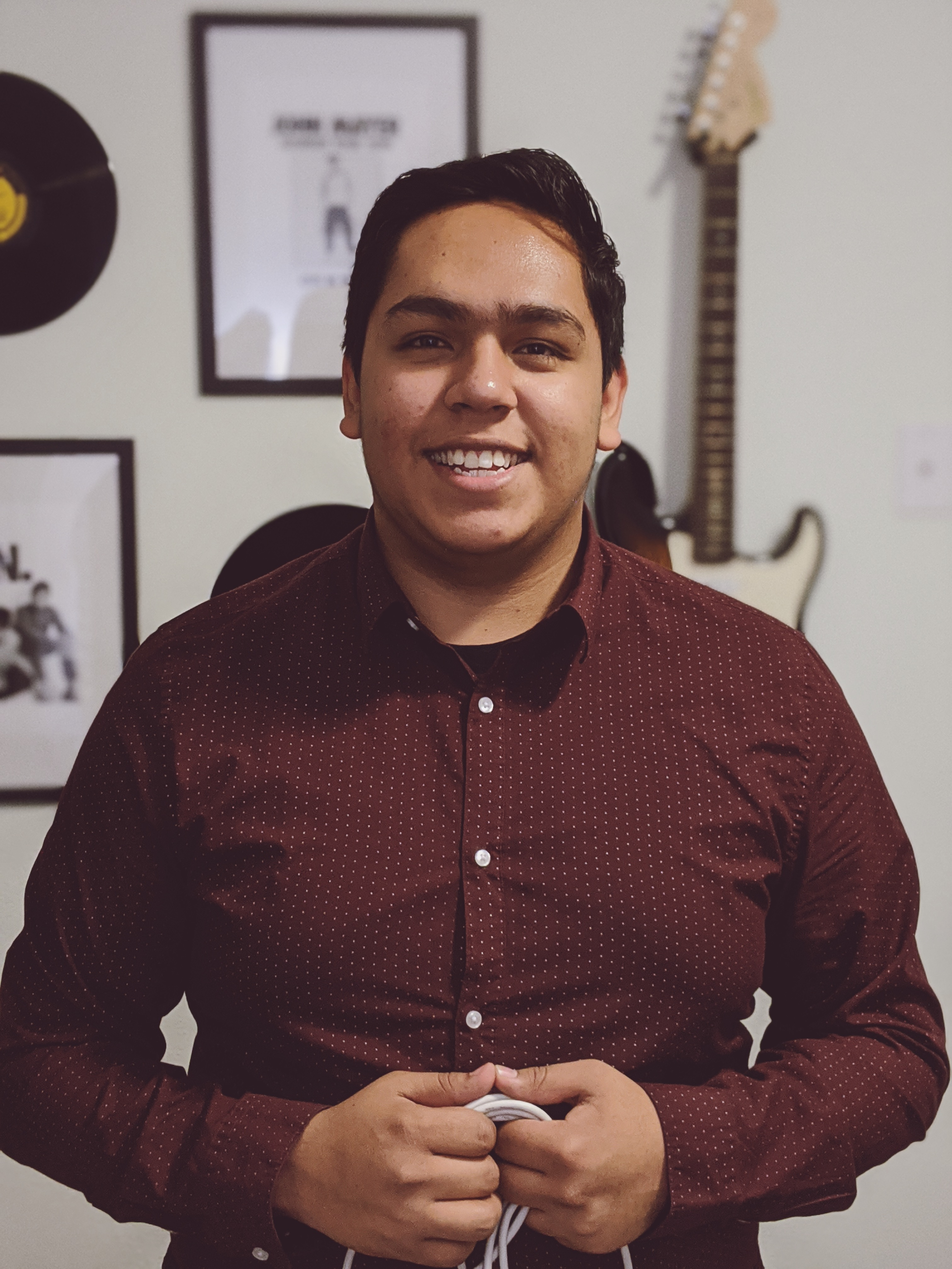
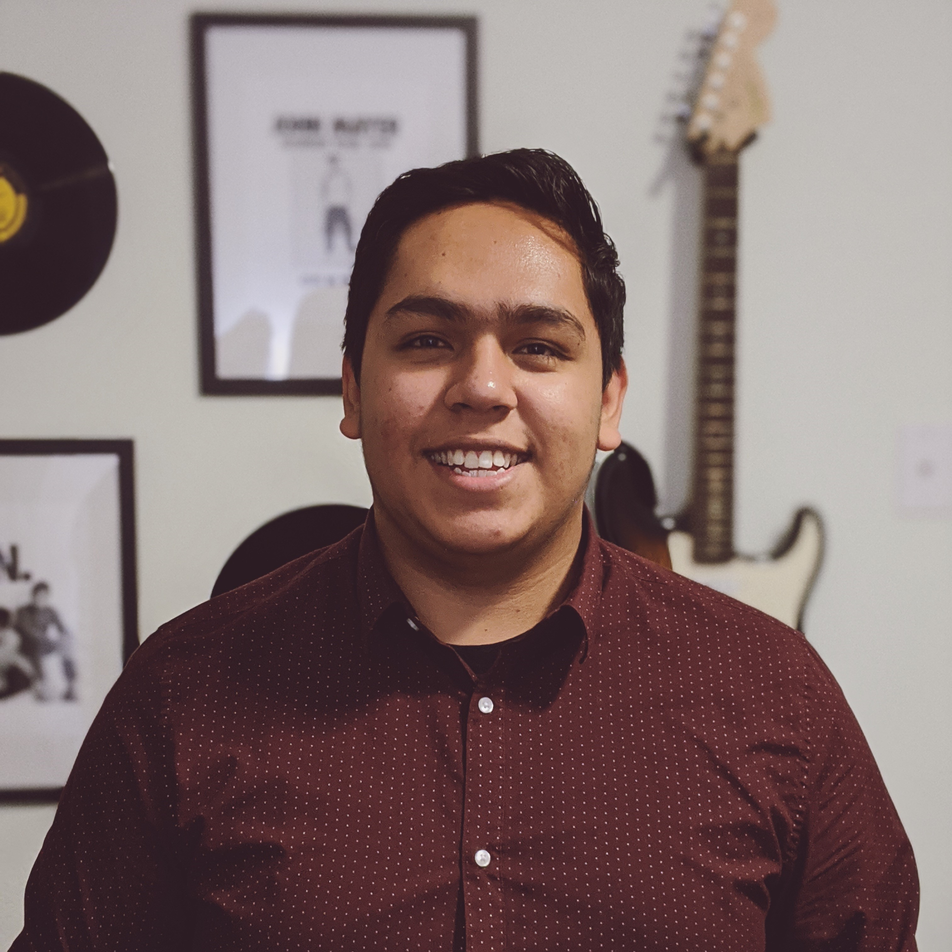
Website Update 06-22-20 10:05p
Made profile pic BW

diff --git a/index.html b/index.html
@@ -140,7 +140,7 @@ long run. Thanks for using the theme, and feel free to submit issues as needed.<
 
     <div id="wrapper">
       <section id="site-intro" >
-  <a href="https://d9dch.github.io/Daniel_Chavez/"><img src="https://d9dch.github.io/Daniel_Chavez/img/new_images/Portrait.jpg" class="circle" width="" alt="Hugo Future Imperfect Slim" /></a>
+  <a href="https://d9dch.github.io/Daniel_Chavez/"><img src="https://d9dch.github.io/Daniel_Chavez/img/new_images/PortraitBW.jpg" class="circle" width="" alt="Hugo Future Imperfect Slim" /></a>
   <header>
     <h1>Daniel Dominguez Chavez</h1>
   </header>

diff --git a/page/2/index.html b/page/2/index.html
@@ -140,7 +140,7 @@ long run. Thanks for using the theme, and feel free to submit issues as needed.<
 
     <div id="wrapper">
       <section id="site-intro" >
-  <a href="https://d9dch.github.io/Daniel_Chavez/"><img src="https://d9dch.github.io/Daniel_Chavez/img/new_images/Portrait.jpg" class="circle" width="" alt="Hugo Future Imperfect Slim" /></a>
+  <a href="https://d9dch.github.io/Daniel_Chavez/"><img src="https://d9dch.github.io/Daniel_Chavez/img/new_images/PortraitBW.jpg" class="circle" width="" alt="Hugo Future Imperfect Slim" /></a>
   <header>
     <h1>Daniel Dominguez Chavez</h1>
   </header>

diff --git a/projects/greeley/index.html b/projects/greeley/index.html
@@ -105,7 +105,7 @@
 
     <div id="wrapper">
       <section id="site-intro" >
-  <a href="https://d9dch.github.io/Daniel_Chavez/"><img src="https://d9dch.github.io/Daniel_Chavez/img/new_images/Portrait.jpg" class="circle" width="" alt="Hugo Future Imperfect Slim" /></a>
+  <a href="https://d9dch.github.io/Daniel_Chavez/"><img src="https://d9dch.github.io/Daniel_Chavez/img/new_images/PortraitBW.jpg" class="circle" width="" alt="Hugo Future Imperfect Slim" /></a>
   <header>
     <h1>Daniel Dominguez Chavez</h1>
   </header>

diff --git a/projects/machine-learning/index.html b/projects/machine-learning/index.html
@@ -107,7 +107,7 @@
 
     <div id="wrapper">
       <section id="site-intro" >
-  <a href="https://d9dch.github.io/Daniel_Chavez/"><img src="https://d9dch.github.io/Daniel_Chavez/img/new_images/Portrait.jpg" class="circle" width="" alt="Hugo Future Imperfect Slim" /></a>
+  <a href="https://d9dch.github.io/Daniel_Chavez/"><img src="https://d9dch.github.io/Daniel_Chavez/img/new_images/PortraitBW.jpg" class="circle" width="" alt="Hugo Future Imperfect Slim" /></a>
   <header>
     <h1>Daniel Dominguez Chavez</h1>
   </header>

diff --git a/projects/microstrip_simulation/index.html b/projects/microstrip_simulation/index.html
@@ -105,7 +105,7 @@
 
     <div id="wrapper">
       <section id="site-intro" >
-  <a href="https://d9dch.github.io/Daniel_Chavez/"><img src="https://d9dch.github.io/Daniel_Chavez/img/new_images/Portrait.jpg" class="circle" width="" alt="Hugo Future Imperfect Slim" /></a>
+  <a href="https://d9dch.github.io/Daniel_Chavez/"><img src="https://d9dch.github.io/Daniel_Chavez/img/new_images/PortraitBW.jpg" class="circle" width="" alt="Hugo Future Imperfect Slim" /></a>
   <header>
     <h1>Daniel Dominguez Chavez</h1>
   </header>

diff --git a/projects/molecule_linear_regression/index.html b/projects/molecule_linear_regression/index.html
@@ -105,7 +105,7 @@
 
     <div id="wrapper">
       <section id="site-intro" >
-  <a href="https://d9dch.github.io/Daniel_Chavez/"><img src="https://d9dch.github.io/Daniel_Chavez/img/new_images/Portrait.jpg" class="circle" width="" alt="Hugo Future Imperfect Slim" /></a>
+  <a href="https://d9dch.github.io/Daniel_Chavez/"><img src="https://d9dch.github.io/Daniel_Chavez/img/new_images/PortraitBW.jpg" class="circle" width="" alt="Hugo Future Imperfect Slim" /></a>
   <header>
     <h1>Daniel Dominguez Chavez</h1>
   </header>

diff --git a/projects/solar_linear_regression/index.html b/projects/solar_linear_regression/index.html
@@ -105,7 +105,7 @@
 
     <div id="wrapper">
       <section id="site-intro" >
-  <a href="https://d9dch.github.io/Daniel_Chavez/"><img src="https://d9dch.github.io/Daniel_Chavez/img/new_images/Portrait.jpg" class="circle" width="" alt="Hugo Future Imperfect Slim" /></a>
+  <a href="https://d9dch.github.io/Daniel_Chavez/"><img src="https://d9dch.github.io/Daniel_Chavez/img/new_images/PortraitBW.jpg" class="circle" width="" alt="Hugo Future Imperfect Slim" /></a>
   <header>
     <h1>Daniel Dominguez Chavez</h1>
   </header>

diff --git a/projects/traffic_stop_gender_bias/index.html b/projects/traffic_stop_gender_bias/index.html
@@ -105,7 +105,7 @@
 
     <div id="wrapper">
       <section id="site-intro" >
-  <a href="https://d9dch.github.io/Daniel_Chavez/"><img src="https://d9dch.github.io/Daniel_Chavez/img/new_images/Portrait.jpg" class="circle" width="" alt="Hugo Future Imperfect Slim" /></a>
+  <a href="https://d9dch.github.io/Daniel_Chavez/"><img src="https://d9dch.github.io/Daniel_Chavez/img/new_images/PortraitBW.jpg" class="circle" width="" alt="Hugo Future Imperfect Slim" /></a>
   <header>
     <h1>Daniel Dominguez Chavez</h1>
   </header>

diff --git a/about/index.html b/about/index.html
@@ -99,7 +99,7 @@
 
     <div id="wrapper">
       <section id="site-intro" >
-  <a href="https://d9dch.github.io/Daniel_Chavez/"><img src="https://d9dch.github.io/Daniel_Chavez/img/new_images/Portrait.jpg" class="circle" width="" alt="Hugo Future Imperfect Slim" /></a>
+  <a href="https://d9dch.github.io/Daniel_Chavez/"><img src="https://d9dch.github.io/Daniel_Chavez/img/new_images/PortraitBW.jpg" class="circle" width="" alt="Hugo Future Imperfect Slim" /></a>
   <header>
     <h1>Daniel Dominguez Chavez</h1>
   </header>

diff --git a/categories/academic-project/index.html b/categories/academic-project/index.html
@@ -95,7 +95,7 @@
 
     <div id="wrapper">
       <section id="site-intro" >
-  <a href="https://d9dch.github.io/Daniel_Chavez/"><img src="https://d9dch.github.io/Daniel_Chavez/img/new_images/Portrait.jpg" class="circle" width="" alt="Hugo Future Imperfect Slim" /></a>
+  <a href="https://d9dch.github.io/Daniel_Chavez/"><img src="https://d9dch.github.io/Daniel_Chavez/img/new_images/PortraitBW.jpg" class="circle" width="" alt="Hugo Future Imperfect Slim" /></a>
   <header>
     <h1>Daniel Dominguez Chavez</h1>
   </header>

diff --git a/categories/academic-project/page/2/index.html b/categories/academic-project/page/2/index.html
@@ -95,7 +95,7 @@
 
     <div id="wrapper">
       <section id="site-intro" >
-  <a href="https://d9dch.github.io/Daniel_Chavez/"><img src="https://d9dch.github.io/Daniel_Chavez/img/new_images/Portrait.jpg" class="circle" width="" alt="Hugo Future Imperfect Slim" /></a>
+  <a href="https://d9dch.github.io/Daniel_Chavez/"><img src="https://d9dch.github.io/Daniel_Chavez/img/new_images/PortraitBW.jpg" class="circle" width="" alt="Hugo Future Imperfect Slim" /></a>
   <header>
     <h1>Daniel Dominguez Chavez</h1>
   </header>

diff --git a/categories/index.html b/categories/index.html
@@ -95,7 +95,7 @@
 
     <div id="wrapper">
       <section id="site-intro" >
-  <a href="https://d9dch.github.io/Daniel_Chavez/"><img src="https://d9dch.github.io/Daniel_Chavez/img/new_images/Portrait.jpg" class="circle" width="" alt="Hugo Future Imperfect Slim" /></a>
+  <a href="https://d9dch.github.io/Daniel_Chavez/"><img src="https://d9dch.github.io/Daniel_Chavez/img/new_images/PortraitBW.jpg" class="circle" width="" alt="Hugo Future Imperfect Slim" /></a>
   <header>
     <h1>Daniel Dominguez Chavez</h1>
   </header>
